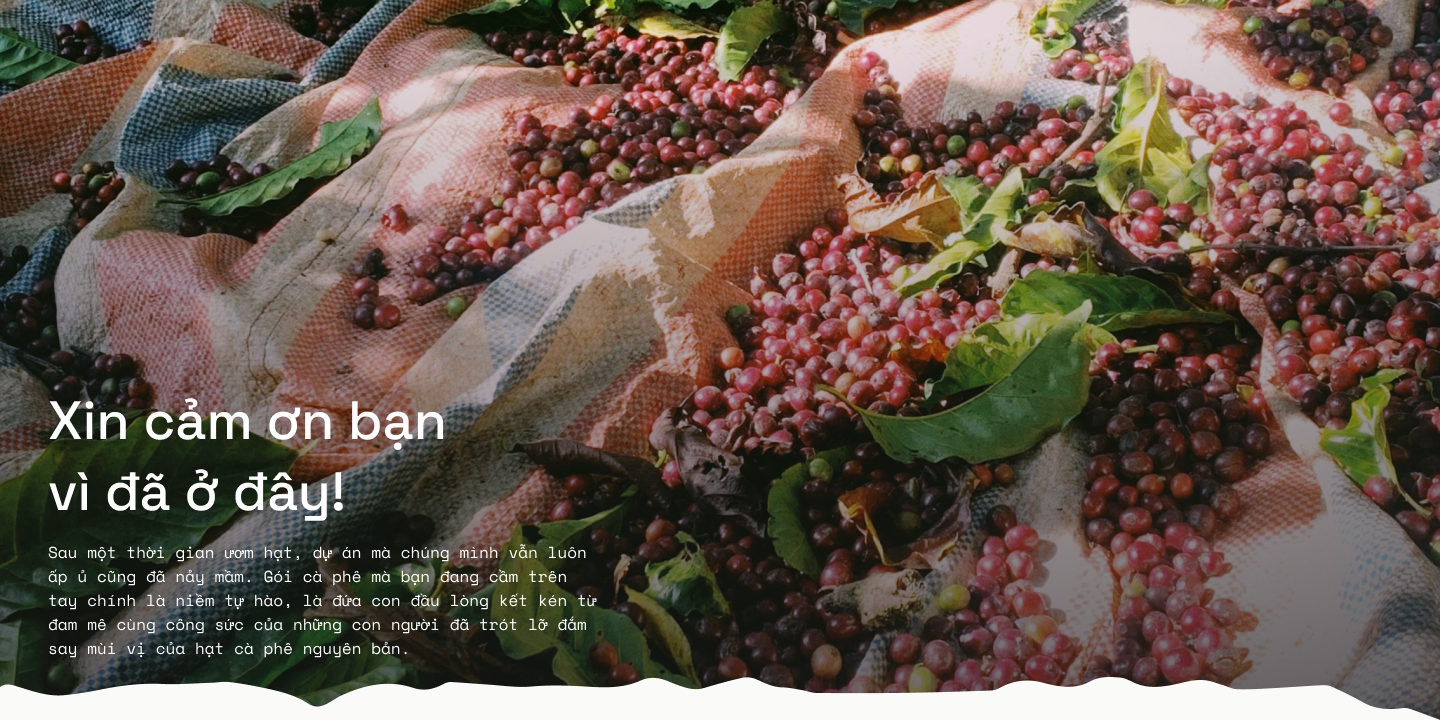
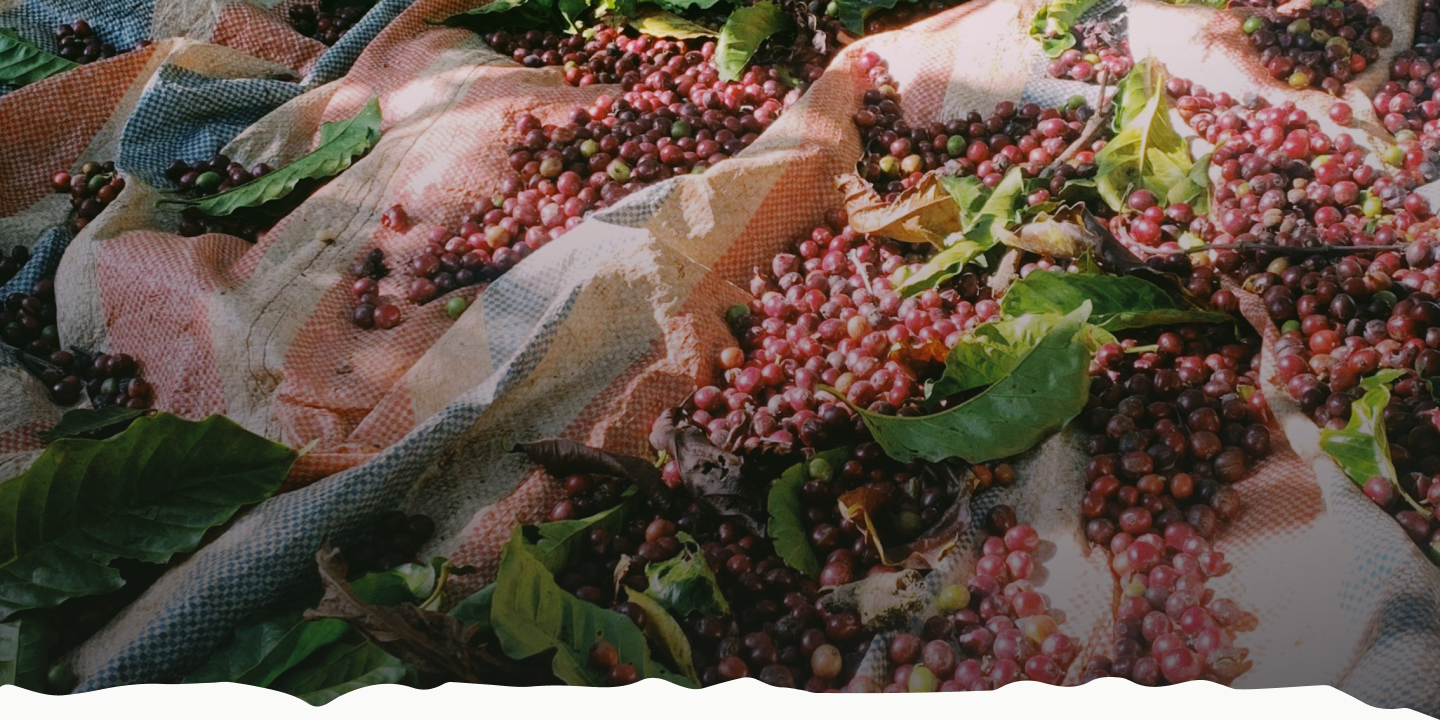
feat: new home page

Changed region(s): [[0.0312, 0.7639, 0.4062, 0.9167], [0.0312, 0.55, 0.3125, 0.6111], [0.0312, 0.6417, 0.25, 0.7333]]

diff --git a/src/routes/+layout.svelte b/src/routes/+layout.svelte
@@ -1,29 +1,28 @@
 <script lang="ts">
-	import { CartIcon, Logo } from "$lib/images";
-	import { APP_ROUTES } from "$lib/routes/route";
-	import "../app.css";
+	import { CartIcon, Logo, ZaloIcon } from '$lib/images';
+	import { APP_ROUTES } from '$lib/routes/route';
+	import '../app.css';
 </script>
 
 <div>
-    <div class="navbar bg-base-100 h-32 p-12">
-        <div class="flex-1">
-          {@html Logo}
-        </div>
-        <div class="flex-none gap-40">
-          <ul class="menu menu-horizontal px-1">
-            <li><a class="text text-lg" href={APP_ROUTES.coming_soon}>Sản phẩm</a></li>
-            <li><a class="text text-lg" href={APP_ROUTES.coming_soon}>Về chúng tôi</a></li>
-          </ul>
-          <div class="dropdown dropdown-end">
-            <div tabindex="0" role="button" class="btn btn-ghost btn-circle ">
-              <div class=" items-center gap-4 justify-between flex flex-row">
-                {@html CartIcon}
-                <!-- <span class="badge badge-sm indicator-item">8</span> -->
-				<span>[{0}]</span>
-              </div>
-			 
-            </div>
-            <!-- <div
+	<div class="navbar bg-base-100 h-32 p-12">
+		<div class="flex-1">
+			{@html Logo}
+		</div>
+		<div class="flex-none gap-40">
+			<ul class="menu menu-horizontal px-1">
+				<li><a class="text text-lg" href={APP_ROUTES.coming_soon}>Sản phẩm</a></li>
+				<li><a class="text text-lg" href={APP_ROUTES.coming_soon}>Về chúng tôi</a></li>
+			</ul>
+			<div class="dropdown dropdown-end">
+				<div tabindex="0" role="button" class="btn btn-ghost btn-circle">
+					<div class=" items-center gap-4 justify-between flex flex-row">
+						{@html CartIcon}
+						<!-- <span class="badge badge-sm indicator-item">8</span> -->
+						<span>[{0}]</span>
+					</div>
+				</div>
+				<!-- <div
               tabindex="0"
               class="card card-compact dropdown-content bg-base-100 z-[1] mt-3 w-52 shadow">
               <div class="card-body">
@@ -34,61 +33,31 @@
                 </div>
               </div>
             </div> -->
-          </div>
-          
-        </div>
-      </div>
- <slot/>
- <footer class="footer bg-neutral text-neutral-content  p-8">
-  <aside>
-    <p>
-      Chúng tôi uống cà phê vào bữa sáng®
-      <br />
-      +84 357 361 589
-    </p>
-    <span>©2024 Hate Monday Coffee Roasters by C5COFFEE</span>
-  </aside>
-  <nav > 	
-    <div class="grid grid-flow-col gap-4">
-      <a>
-        <svg
-          xmlns="http://www.w3.org/2000/svg"
-          width="24"
-          height="24"
-          viewBox="0 0 24 24"
-          class="fill-current">
-          <path
-            d="M24 4.557c-.883.392-1.832.656-2.828.775 1.017-.609 1.798-1.574 2.165-2.724-.951.564-2.005.974-3.127 1.195-.897-.957-2.178-1.555-3.594-1.555-3.179 0-5.515 2.966-4.797 6.045-4.091-.205-7.719-2.165-10.148-5.144-1.29 2.213-.669 5.108 1.523 6.574-.806-.026-1.566-.247-2.229-.616-.054 2.281 1.581 4.415 3.949 4.89-.693.188-1.452.232-2.224.084.626 1.956 2.444 3.379 4.6 3.419-2.07 1.623-4.678 2.348-7.29 2.04 2.179 1.397 4.768 2.212 7.548 2.212 9.142 0 14.307-7.721 13.995-14.646.962-.695 1.797-1.562 2.457-2.549z"></path>
-        </svg>
-      </a>
-      <a>
-        <svg
-          xmlns="http://www.w3.org/2000/svg"
-          width="24"
-          height="24"
-          viewBox="0 0 24 24"
-          class="fill-current">
-          <path
-            d="M19.615 3.184c-3.604-.246-11.631-.245-15.23 0-3.897.266-4.356 2.62-4.385 8.816.029 6.185.484 8.549 4.385 8.816 3.6.245 11.626.246 15.23 0 3.897-.266 4.356-2.62 4.385-8.816-.029-6.185-.484-8.549-4.385-8.816zm-10.615 12.816v-8l8 3.993-8 4.007z"></path>
-        </svg>
-      </a>
-      <a>
-        <svg
-          xmlns="http://www.w3.org/2000/svg"
-          width="24"
-          height="24"
-          viewBox="0 0 24 24"
-          class="fill-current">
-          <path
-            d="M9 8h-3v4h3v12h5v-12h3.642l.358-4h-4v-1.667c0-.955.192-1.333 1.115-1.333h2.885v-5h-3.808c-3.596 0-5.192 1.583-5.192 4.615v3.385z"></path>
-        </svg>
-      </a>
-    </div>
-    <p>
-      Xưởng rang
-      <br />
-      2B Linh Trung, Linh Trung, Thủ Đức
-    </p>
-  </nav>
-</footer>
+			</div>
+		</div>
+	</div>
+	<slot />
+	<footer class="footer bg-neutral text-neutral-content p-8">
+		<aside>
+			<p>
+				Chúng tôi uống cà phê vào bữa sáng®
+				<br />
+				+84 357 361 589
+			</p>
+			<span>©2024 Hate Monday Coffee Roasters by C5COFFEE</span>
+		</aside>
+		<nav>
+			<div class="grid grid-flow-col gap-4">
+				<a class="flex flex-col items-center">
+					{@html ZaloIcon}
+					Zalo
+				</a>
+			</div>
+			<p>
+				Xưởng rang
+				<br />
+				2B Linh Trung, Linh Trung, Thủ Đức
+			</p>
+		</nav>
+	</footer>
 </div>

diff --git a/src/lib/components/home/instruction.svelte b/src/lib/components/home/instruction.svelte
@@ -1,0 +1,58 @@
+<div class="flex flex-col justify-start items-start p-12">
+	<div class="text text-display font-sans mb-8">Hướng dẫn mua hàng</div>
+	<div class="collapse collapse-plus">
+		<input type="radio" name="my-accordion-3" checked={true} />
+		<h1 class="collapse-title text-h1 font-sans font-medium">
+			01 Truy cập website và lựa chọn các sản phẩm
+		</h1>
+		<div class="collapse-content">
+			<p class="text text-lg">
+				This coffee was grown by El Porvenir Cooperative on the steep slopes surrounding Laguna de
+				Ayarza in the Santa Rosa Department of southeastern Guatemala. Famous for its natural
+				beauty, Laguna de Ayarza is a high elevation double caldera. Approximately 20,000 years ago,
+				two different catastrophic volcanic eruptions caused two intertwined volcanos to collapse
+				into the earth, thus creating the lake and blanketing the region in mineral-rich pumice. The
+				area's fertile volcanic soil, consistent rainfall, warm days, and cool nights are perfect
+				for specialty coffee cultivation and promote slow cherry maturation. Coffee from this region
+				is famous for being sweet and dense.
+			</p>
+		</div>
+		<div class="divider divider-neutral h-0"></div>
+	</div>
+	<div class="collapse collapse-plus">
+		<input type="radio" name="my-accordion-3" />
+		<h1 class="collapse-title text-h1 font-sans font-medium">02 Nhập thông tin đặt hàng</h1>
+		<div class="collapse-content">
+			<p class="text text-lg">
+				This coffee was grown by El Porvenir Cooperative on the steep slopes surrounding Laguna de
+				Ayarza in the Santa Rosa Department of southeastern Guatemala. Famous for its natural
+				beauty, Laguna de Ayarza is a high elevation double caldera. Approximately 20,000 years ago,
+				two different catastrophic volcanic eruptions caused two intertwined volcanos to collapse
+				into the earth, thus creating the lake and blanketing the region in mineral-rich pumice. The
+				area's fertile volcanic soil, consistent rainfall, warm days, and cool nights are perfect
+				for specialty coffee cultivation and promote slow cherry maturation. Coffee from this region
+				is famous for being sweet and dense.
+			</p>
+		</div>
+		<div class="divider divider-neutral h-0"></div>
+	</div>
+	<div class="collapse collapse-plus">
+		<input type="radio" name="my-accordion-3" />
+		<div class="collapse-title text-h1 font-sans font-medium">
+			03 “Hate Monday” xác nhận và giao hàng
+		</div>
+		<div class="collapse-content">
+			<p class="text text-lg">
+				This coffee was grown by El Porvenir Cooperative on the steep slopes surrounding Laguna de
+				Ayarza in the Santa Rosa Department of southeastern Guatemala. Famous for its natural
+				beauty, Laguna de Ayarza is a high elevation double caldera. Approximately 20,000 years ago,
+				two different catastrophic volcanic eruptions caused two intertwined volcanos to collapse
+				into the earth, thus creating the lake and blanketing the region in mineral-rich pumice. The
+				area's fertile volcanic soil, consistent rainfall, warm days, and cool nights are perfect
+				for specialty coffee cultivation and promote slow cherry maturation. Coffee from this region
+				is famous for being sweet and dense.
+			</p>
+		</div>
+		<div class="divider divider-neutral h-0"></div>
+	</div>
+</div>

diff --git a/src/lib/components/home/services.svelte b/src/lib/components/home/services.svelte
@@ -1,0 +1,55 @@
+<script>
+	import { FarmImage, PreProcessImage, ProductionImage, RoastedImage } from '$lib/images';
+</script>
+
+<div class="px-32 py-32">
+	<div class="text text-lg text-center font-normal px-12">
+		Năm 2021, trên một căn gác nhỏ bé ngập tràn hương thơm cà phê, những hạt cà phê đầu tiên của
+		“Hate Monday” đã được thử nghiệm. Với chúng tôi, cà phê không chỉ là thức uống mà còn là một
+		phần của nền văn hóa. Chúng tôi mong muốn tạo ra những tách cà phê giàu hương vị, độc đáo và góp
+		phần xây dựng giá trị cộng đồng, kết nối những người yêu cà phê lại với nhau.
+	</div>
+	<div class="flex flex-row items-center gap-12 px-12">
+		<img class="flex-1" src={FarmImage} alt="Farm" />
+		<div class="flex-1 flex flex-col">
+			<span class="text text-display font-sans mb-8">Nông trại</span>
+			<span class="text max-w-md">
+				Mỗi hạt cà phê bạn sử dụng bắt đầu cuộc hành trình của nó trên một cái cây trong một trang
+				trại cách nửa vòng trái đất. Tại trang trại của chúng tôi ở Pleiku
+			</span>
+		</div>
+	</div>
+	<div class="flex flex-row items-center gap-12 px-12">
+		<div class="flex-1 flex flex-col">
+			<span class="text text-display font-sans mb-8">Sơ chế</span>
+			<span class="text max-w-md">
+				Sau khi thu hoạch, hạt cà phê trải qua nhiều quy trình khác nhau, bao gồm rửa hoàn toàn, bán
+				rửa, rửa mật ong và tự nhiên.
+			</span>
+		</div>
+		<img class="flex-1" src={PreProcessImage} alt="PreProcess" />
+	</div>
+	<div class="flex flex-row items-center gap-12 px-12">
+		<img class="flex-1" src={RoastedImage} alt="Farm" />
+		<div class="flex-1 flex flex-col">
+			<span class="text text-display font-sans mb-8">Rang xay</span>
+			<span class="text max-w-md">
+				Sau khi thu hoạch, hạt cà phê trải qua nhiều quy trình khác nhau, bao gồm rửa hoàn toàn, bán
+				rửa, rửa mật ong và tự nhiên.
+			</span>
+		</div>
+	</div>
+	<div class="flex flex-row items-center gap-12 bg-neutral-100 rounded-2xl px-12">
+		<div class="flex-1 flex flex-col gap-8">
+			<span class="text text-display font-sans">Thành phẩm</span>
+			<span class="text max-w-md">
+				Sau khi thu hoạch, hạt cà phê trải qua nhiều quy trình khác nhau, bao gồm rửa hoàn toàn, bán
+				rửa, rửa mật ong và tự nhiên.
+			</span>
+			<button class="h-8 w-fit btn text-neutral-50 btn-neutral text rounded-none"
+				>[Sản phẩm của chúng tôi]</button
+			>
+		</div>
+		<img class="flex-1" src={ProductionImage} alt="PreProcess" />
+	</div>
+</div>

diff --git a/src/routes/+page.svelte b/src/routes/+page.svelte
@@ -1,5 +1,6 @@
 <script lang="ts">
 	import { goto } from '$app/navigation';
+	import { FirstHero, Instruction, SecondHero, Services } from '$lib';
 	import Product from '$lib/components/product.svelte';
 	import { Hero, Logo, Stamp } from '$lib/images';
 	import { APP_ROUTES } from '$lib/routes/route';
@@ -11,9 +12,8 @@
 </script>
 
 <div class="w-full flex flex-col">
-	<div class="hero min-h-screen" style="background-image: url({Hero});"></div>
-	<img class="h-40 w-40 -mt-20 self-end mr-14" src={Stamp} alt="logo" />
-	<div class="w-full flex flex-row min-h-screen px-12 pt-32 gap-12">
+	<FirstHero />
+	<div class="w-full flex flex-row px-12 py-32 gap-12">
 		<div class="flex-1 flex flex-col justify-start">
 			<div class="font-sans text-display">Được mua nhiều nhất</div>
 			<button class="h-8 w-fit btn btn-neutral rounded-none">[Xem tất cả]</button>
@@ -24,4 +24,7 @@
 			<Product></Product>
 		</div>
 	</div>
+	<SecondHero />
+	<Services />
+	<Instruction />
 </div>

diff --git a/tailwind.config.js b/tailwind.config.js
@@ -8,13 +8,30 @@ export default {
 			lg: ['16px', '24px'],
 			xl: ['20px', '38px'],
 			display: ['40px', '52px'],
-			h3: ['20px', '26px']
+			'display-l': ['54px', '72px'],
+			h3: ['20px', '26px'],
+			h1: ['32px', '42px']
 		},
 		extend: {
 			fontFamily: {
 				sans: ['Space Grotesk', 'sans-serif'],
 				mono: ['Space Mono', 'mono']
 			}
+		},
+		fontFamily: {
+			sans: ['ui-sans-serif', 'system-ui'],
+			mono: ['ui-monospace', 'Space Mono']
+		},
+		fontWeight: {
+			thin: '100',
+			extralight: '200',
+			light: '300',
+			normal: '400',
+			medium: '500',
+			semibold: '600',
+			bold: '700',
+			extrabold: '800',
+			black: '900'
 		}
 	},
 	daisyui: {
@@ -32,6 +49,8 @@ export default {
 					background: '#FAFBF8',
 					'base-100': '#ffffff',
 					'base-200': '#F4F4F3',
+					'neutral-000': '#ffffff',
+					'neutral-50': '#F3F3F3',
 					'neutral-100': '#151614',
 					'neutral-600': '#737372'
 				}

diff --git a/src/lib/components/home/first-hero.svelte b/src/lib/components/home/first-hero.svelte
@@ -1,0 +1,19 @@
+<script>
+	import { Hero, Stamp } from '$lib/images';
+</script>
+
+<div class="hero min-h-screen" style="background-image: url({Hero});">
+	<div
+		class="hero-content -ml-72 text-neutral-50 text-left flex-col lg:flex-row justify-start items-end w-full h-full"
+	>
+		<div class="max-w-md">
+			<div class="mb-5 text-display-l font-sans">Xin cảm ơn bạn vì đã ở đây!</div>
+			<p class="mb-16">
+				Sau một thời gian ươm hạt, dự án mà chúng mình vẫn luôn ấp ủ cũng đã nảy mầm. Gói cà phê mà
+				bạn đang cầm trên tay chính là niềm tự hào, là đứa con đầu lòng kết kén từ đam mê cùng công
+				sức của những con người đã trót lỡ đắm say mùi vị của hạt cà phê nguyên bản.
+			</p>
+		</div>
+	</div>
+</div>
+<img class="h-40 w-40 -mt-24 self-end mr-14" src={Stamp} alt="logo" />

diff --git a/src/lib/components/home/second-hero.svelte b/src/lib/components/home/second-hero.svelte
@@ -1,0 +1,19 @@
+<script>
+	import { SecondHero } from '$lib/images';
+</script>
+
+<div class="hero min-h-screen" style="background-image: url({SecondHero});">
+	<div
+		class="hero-content -ml-72 text-neutral-50 text-left flex-col lg:flex-row justify-start items-center w-full"
+	>
+		<div class="max-w-3xl mt-64">
+			<div class="mb-5 text-display-l font-sans">
+				Điều gì khiến cà phê của chúng tôi trở nên đặc biệt
+			</div>
+		</div>
+	</div>
+</div>
+<p class=" -mt-12 self-center text-neutral-50 font-mono truncate">
+	“Free ship” cho đơn hàng từ 500k. “Free ship” cho đơn hàng từ 500k. “Free ship” cho đơn hàng từ
+	500k. “Free ship” cho đơn hàng từ 500k. “Free ship” cho đơn hàng từ 500k.
+</p>

diff --git a/src/lib/images/index.ts b/src/lib/images/index.ts
@@ -2,5 +2,11 @@ export { default as Logo } from './logo.svg?raw';
 export { default as CartIcon } from './cart.svg?raw';
 export { default as ComingSoonImage } from './comming_soon.png';
 export { default as Hero } from './Hero.png';
+export { default as SecondHero } from './SecondHero.png';
 export { default as Stamp } from './Stamp.png';
 export { default as Product1 } from './product1.png';
+export { default as FarmImage } from './farm.png';
+export { default as PreProcessImage } from './pre-process.png';
+export { default as RoastedImage } from './roasted.png';
+export { default as ProductionImage } from './Production.png';
+export { default as ZaloIcon } from './zalo.svg?raw';

diff --git a/src/lib/components/index.ts b/src/lib/components/index.ts
@@ -1,1 +1,5 @@
-export { default as ProductCard } from './product.svelte'
+export { default as ProductCard } from './product.svelte';
+export { default as SecondHero } from './home/second-hero.svelte';
+export { default as FirstHero } from './home/first-hero.svelte';
+export { default as Services } from './home/services.svelte';
+export { default as Instruction } from './home/instruction.svelte';

diff --git a/src/lib/components/product.svelte b/src/lib/components/product.svelte
@@ -2,7 +2,7 @@
 	import { Product1 } from '$lib/images';
 </script>
 
-<div class="flex flex-col rounded-xl w-72 h-[491] gap-2">
+<div class="flex flex-col rounded-xl w-72 gap-2">
 	<figure class="bg-base-200 rounded-xl flex flex-col items-end">
 		<img src={Product1} alt="Shoes" />
 		<div class="badge mb-2 mr-2 px-3 py-1">Light roast</div>
